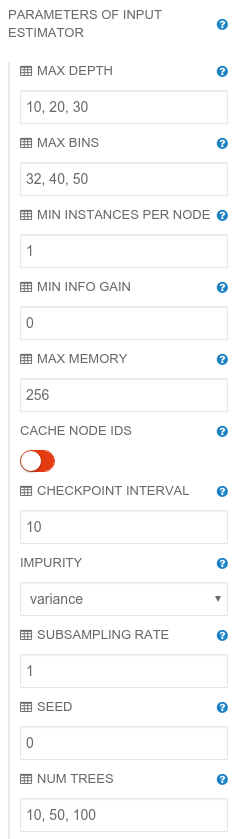
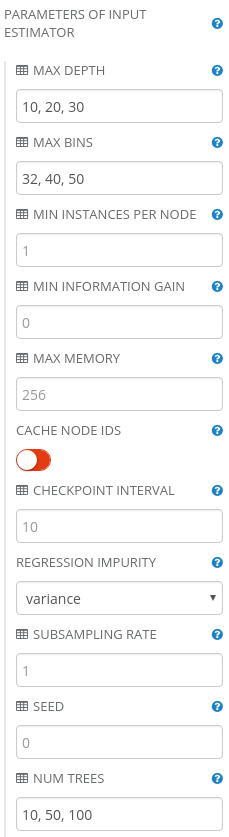
SHR-1005 SHR-1015 Update content to reflect 1.4.0
Both images and text were changed for wine properties example.

diff --git a/docs/_casestudies/wine_properties.md b/docs/_casestudies/wine_properties.md
@@ -10,37 +10,56 @@ description: Wine Properties
 
 **Dataset size**: 1,599 rows; 12 columns (11 numerical columns, 1 integer column).
 
-**Datasets description**: The dataset contains a description of a set of wines. Each wine is described by a set of 11 features based on physicochemical tests like density or pH. Additionally to that, each type of wine has a score that describes the wine’s quality. The score is based on sensory data (median of at least 3 evaluations made by wine experts). Each expert graded the wine quality between 0 (very bad) and 10 (excellent).
+**Datasets description**: The dataset contains a description of a set of wines.
+Each wine is described by a set of 11 features based on physicochemical tests like density or pH.
+Additionally to that, each type of wine has a score that describes the wine’s quality.
+The score is based on sensory data (median of at least 3 evaluations made by wine experts).
+Each expert graded the wine quality between 0 (very bad) and 10 (excellent).
 
-**Business purpose**: finding important features of wines that define wine quality as perceived by tasters.
+**Business purpose**: Finding important features of wines that define wine quality as perceived by tasters.
 
 **Data set credits**: Paulo Cortez, University of Minho, Guimarães, Portugal, <http://www3.dsi.uminho.pt/pcortez>
 A. Cerdeira, F. Almeida, T. Matos and J. Reis, Viticulture Commission of the Vinho Verde Region(CVRVV), Porto, Portugal 2009.
 Lichman, M. (2013).
 
 
-UCI Machine Learning Repository <http://archive.ics.uci.edu/ml>. Irvine, CA: University of California, School of Information and Computer Science.
+UCI Machine Learning Repository <http://archive.ics.uci.edu/ml>.
+Irvine, CA: University of California, School of Information and Computer Science.
 
 ## Step-by-step Workflow Creation
 
 ### Reading the Data
 
-The data is provided in the form of a 12-column, semicolon-separated CSV-like file. The first row consists of column names. To work with the dataset, it has to be loaded into Seahorse. This can be done by [Read DataFrame](../operations/read_dataframe.html) operation. Let’s place it on the canvas. To load the data, besides providing the correct path to the file, it is necessary to change the separator parameter to semicolon.
+The data is provided in the form of a 12-column, semicolon-separated CSV-like file.
+The first row consists of column names.
+To work with the dataset, it has to be loaded into Seahorse.
+This can be done by [Read DataFrame](../operations/read_dataframe.html) operation.
+Let’s place it on the canvas and create a new Data Source.
+To load the data, besides providing the correct path to the file,
+it is necessary to set the separator parameter to semicolon.
 
 <img class="bordered-image centered-image img-responsive spacer" src="../img/usecases/wine_properties/image_0.png">
 
-After setting Read DataFrame’s parameters to the correct values, the operation is ready to execute. When the execution ends, a report of the operation will be available. Let’s click on the output port to see it.
+After setting Read DataFrame’s parameters to the correct values, the operation is ready to execute.
+When the execution ends, a report of the operation will be available.
+Let’s click on the output port to see it.
 
 <img class="centered-image img-responsive spacer" src="../img/usecases/wine_properties/image_1.png">
 
-Now, we can explore the data a bit. The report included 20 sample rows.  As we can see, each wine is described by a set of 11 numerical features and an ordinal score based on sensory data (column **quality**) that describes wine’s quality.
+Now, we can explore the data a bit.
+The report included 20 sample rows.
+As we can see, each wine is described by a set of 11 numerical features
+and an ordinal score based on sensory data (column **quality**) that describes wine’s quality.
 
-Moreover, you can see distributions of values for each column. Click on a column’s header to see the distribution diagram, minimum value, maximum value, mean value and how many values are missing.
+Moreover, you can see distributions of values for each column.
+Click on an icon in column’s header to see
+the distribution diagram, minimum value, maximum value, mean value and how many values are missing.
 
 <img class="centered-image img-responsive spacer" src="../img/usecases/wine_properties/image_2.png">
 
 
-After some exploration we can see that no value is missing. Minimum values, mean values and maximum values summarizes the table below:
+After some exploration we can see that no value is missing.
+Minimum values, mean values and maximum values summarizes the table below:
 
 <table>
   <thead>
@@ -141,33 +160,81 @@ After some exploration we can see that no value is missing. Minimum values, mean
 
 ### The Objective
 
-Now, we will try to investigate which features of wine have significant impact on the quality. There are many different ways of achieving this. One of the possibilities is to fit a regression model to the data. For example, we could use a [Linear Regression](../operations/linear_regression.html) or a [Random Forest Regression](../operations/random_forest_regression.html). The first one exposes features weights that signify whether the feature has a positive or a negative impact (and how big the impact is) on the overall estimated value. Random Forest Regression exposes only importances of features, that help to determine whether the impact on the estimated value is high or low. Although, while it is not necessarily a rule, in many practical applications Random Forest Regression outperforms Linear Regression. Because of that we’ll choose Random Forest Regression.
+Now, we will try to investigate which features of wine have significant impact on the quality.
+There are many different ways of achieving this.
+One of the possibilities is to fit a regression model to the data.
+For example, we could use a [Linear Regression](../operations/linear_regression.html)
+or a [Random Forest Regression](../operations/random_forest_regression.html).
+The first one exposes features weights that signify
+whether the feature has a positive or a negative impact (and how big the impact is)
+on the overall estimated value.
+Random Forest Regression exposes only importances of features,
+that help to determine whether the impact on the estimated value is high or low.
+Although, while it is not necessarily a rule,
+in many practical applications Random Forest Regression outperforms Linear Regression.
+Because of that we’ll choose Random Forest Regression.
 
 ### Preparation and Feature Comparison Prerequisites
 
-Before we can train the Random Forest Regression to find out feature importance, we need to prepare the data. Some of Seahorse’s algorithms operate on columns that contain a vector of features (instead of a set of columns with one value each). The regression is one of them and before we use it, we need to combine 11 feature columns to one column that contains a vector of the features. We’ll do this using an [Assemble Vector](../operations/assemble_vector.html) operation.
+Before we can train the Random Forest Regression to find out feature importance,
+we need to prepare the data.
+Some of Seahorse’s algorithms operate on columns that contain a vector of features
+(instead of a set of columns with one value each).
+The regression is one of them and before we use it,
+we need to combine 11 feature columns to one column that contains a vector of the features.
+We’ll do this using an [Assemble Vector](../operations/assemble_vector.html) operation.
 
 Let’s put the Assemble Vector operation on the canvas and connect it as follows:
 
 <img class="centered-image img-responsive spacer" src="../img/usecases/wine_properties/image_3.png">
 
-The next step is to set parameters to the two operations. In the Assemble Vector operation we have to select the columns to be grouped and the output column’s name. We want to select wine features excluding quality, that is columns from 0 to 10. Let’s call the vectorized output column "features".
+The next step is to set parameters to the two operations.
+In the Assemble Vector operation we have
+to select the columns to be groupedand the output column’s name.
+We want to select wine features excluding quality, that is columns from 0 to 10.
+Let’s call the vectorized output column "features".
 
 <img class="bordered-image centered-image img-responsive spacer"  src="../img/usecases/wine_properties/image_4.png">
 
 ### Parameters of Training Process
 
-The Assemble Vector’s output [DataFrame](../classes/dataframe.html) has a format that the regression can work on - we are now ready to start playing with the regression. The regression allows to predict one column’s value basing on other columns’ values. In our case, you will want to create a Random Forest Regression model that predicts the quality of wine based on the value of **features** column. Then, we will take a look at the model to see how important each feature is.
+The Assemble Vector’s output [DataFrame](../classes/dataframe.html)
+has a format that the regression can work on - we are now ready to start playing with the regression.
+The regression allows to predict one column’s value basing on other columns’ values.
+In our case, you will want to create a Random Forest Regression model
+that predicts the quality of wine based on the value of **features** column.
+Then, we will take a look at the model to see how important each feature is.
 
-To create a model, we have to use [Fit](../operations/fit.html) operation. Random Forest Regression has many parameters that affect its behavior. It is not a trivial task to find the best values of parameters. Usually, it is done experimentally. Advanced knowledge about the Random Forest Regression algorithm is required. To overcome this issue, we’ll use a [Grid Search](../operations/grid_search.html) operation and let another algorithm find the best values for us. To use the Grid Search operation we define value sets for each parameter of a model. The Grid Search will fit as many models as there are combinations of the parameters. Later, it evaluates prediction correctness (using an [Evaluator](../classes/evaluator.html)) of all models. Finally, we end up with a report that summarizes Grid Search results and shows the best combination of parameters.
+To create a model, we have to use [Fit](../operations/fit.html) operation.
+Random Forest Regression has many parameters that affect its behavior.
+It is not a trivial task to find the best values of parameters. Usually, it is done experimentally.
+Advanced knowledge about the Random Forest Regression algorithm is required.
+To overcome this issue, we’ll use a [Grid Search](../operations/grid_search.html) operation
+and let another algorithm find the best values for us.
+To use the Grid Search operation we define value sets for each parameter of a model.
+The Grid Search will fit as many models as there are combinations of the parameters.
+Later, it evaluates prediction correctness
+(using an [Evaluator](../classes/evaluator.html)) of all models.
+Finally, we end up with
+a report that summarizes Grid Search results and shows the best combination of parameters.
 
-Place the Grid Search operation on the canvas. It has 3 inputs. To the first one, we’ll connect the first output port from the Assemble Vector operation, as we want to feed the Grid Search with the DataFrame that the Assemble Vector operation produces. To the second port we’ll connect the Random Forest Regression - let’s place it on the canvas. To the last port we need to connect an Evaluator - place a [Regression Evaluator](../operations/regression_evaluator.html) on the canvas and connect it with the Grid Search.
+Place the Grid Search operation on the canvas.
+It has 3 inputs.
+To the middle one, we’ll connect the first output port from the Assemble Vector operation,
+as we want to feed the Grid Search with the DataFrame that the Assemble Vector operation produces.
+To the left-hand port we’ll connect the Random Forest Regression - let’s place it on the canvas.
+To the right-hand port we need to connect an Evaluator - place
+a [Regression Evaluator](../operations/regression_evaluator.html) on the canvas
+and connect it with the Grid Search.
 
-A Regression Evaluator is capable of evaluating predictions made by a Regression. The evaluation is done using a certain metric. We’ll use RMSE (Root-Mean-Square Error), as it is the simplest to interpret.
+A Regression Evaluator is capable of evaluating predictions made by a Regression.
+The evaluation is done using a certain metric.
+We’ll use RMSE (Root-Mean-Square Error), as it is the simplest to interpret.
 
 <img class="centered-image img-responsive spacer"  src="../img/usecases/wine_properties/image_5.png">
 
-Grid Search operation’s parameters combine the parameters from its input Regressor and Evaluator. In the parameters panel, scroll down to the parameters of the input estimator and set their values to:
+Grid Search operation’s parameters combine the parameters from its input Regressor and Evaluator.
+In the parameters panel, set values of parameters of the input estimator to:
 
 * `max depth`: `10, 20, 30`,
 
@@ -187,24 +254,46 @@ Grid Search operation’s parameters combine the parameters from its input Regre
 </table>
 
 
-Using these value sets, we define 27 models (3 x 3 x 3) that need to be trained and then evaluated. The last thing we need to set in the Grid Search operation are the `features column` and the `label column`. The former specifies which column contains the predictors (i.e. the features on which our prediction will be based on). We’ll set this parameter to `features`. The latter specifies the column containing true values of our predicted variable, for training purposes. We’ll set this to `quality`.
+Using these value sets, we define 27 models (3 x 3 x 3) that need to be trained and then evaluated.
+The last thing we need to set in the Grid Search operation
+are the `features column` and the `label column`.
+The former specifies which column contains the predictors
+(i.e. the features on which our prediction will be based on).
+We’ll set this parameter to `features`.
+The latter specifies the column
+containing true values of our predicted variable, for training purposes.
+We’ll set this to `quality`.
 
-Finally, leave other parameters with the default values and execute the workflow. As we mentioned, 27 models have to be trained and evaluated (twice, because of cross-validation) so the execution can take a couple of minutes. Afterwards, we can read parameters that got the best score. They can be read from Grid Search’s report.
+Finally, leave other parameters with the default values and execute the workflow.
+As we mentioned, 27 models have to be trained and evaluated (twice, because of cross-validation)
+so the execution can take a couple of minutes.
+Afterwards, we can read parameters that got the best score.
+They can be read from Grid Search’s report.
 <img class="centered-image img-responsive spacer"  src="../img/usecases/wine_properties/image_6.png">
 
 In our case the best parameters found are:
 
-* `max depth`: `20`,
-
 * `max bins`: `40`,
+
+* `max depth`: `30`,
 
 * `num trees`: `100`.
 
-As we can see, none of the parameters (except number of trees) lays on the edge of the grid. We could increase number of trees because, generally for the Random Forest Regression, the more trees, the more accurate the results of regression. However, differences between 50 and 100 trees are rather small and further increase of the number of trees won’t have a significant impact on the quality. Moreover, computation time grows with the number of trees. We are going to use 100 trees in the Random Forest Regression as it’s a good compromise between accuracy and execution time.
+As we can see, none of the parameters (except number of trees) lays on the edge of the grid.
+We could increase number of trees because, generally for the Random Forest Regression,
+the more trees, the more accurate the results of regression.
+However, differences between 50 and 100 trees are rather small
+and further increase of the number of trees won’t have a significant impact on the quality.
+Moreover, computation time grows with the number of trees.
+We are going to use 100 trees in the Random Forest Regression
+as it’s a good compromise between accuracy and execution time.
 
 ### Training
 
-Since we now know the best parameter values, we can use the Fit operation to train a Random Forest Regression model. Edit Fit’s parameters according to the report generated by the Grid Search, i.e. copy the best parameter values to the Fit operation. Then, select `features` as the `features column` and `quality` as the `label column`. Finally, execute the Fit operation.
+Since we now know the best parameter values
+we can use the Fit operation to train a Random Forest Regression model.
+Edit Fit’s parameters according to the report generated by the Grid Search,
+i.e. copy the best parameter values to the Fit operation. Then, select `features` as the `features column` and `quality` as the `label column`. Finally, execute the Fit operation.
 
 <img class="centered-image img-responsive spacer"  src="../img/usecases/wine_properties/image_7.png">
 
@@ -268,6 +357,20 @@ Fit returns a trained model. In the model’s report we can inspect the feature 
 
 ## Conclusion
 
-We’ve researched how important each feature of wine is for estimating its perceived quality. It turned out, that the two most important features are alcohol and sulphates concentration.
+We’ve researched how important each feature of wine is for estimating its perceived quality.
+It turned out, that the two most important features are alcohol and sulphates concentration.
 
-The trained model can be used to predict quality of wine. Wine grades were ordinal numbers, but the model generates real numbers. To convert real numbers to an ordinal number, we could round the prediction to the nearest ordinal number. If the prediction differs from the estimated value by no more than 0.5, then the rounded prediction will be the same number as the estimated value (it will be a correct prediction). If the difference is bigger than 0.5, but not bigger than 1.5, then the rounded prediction will be inaccurate by 1. Model’s RMSE is about 0.61. It means that the model’s predictions differ from the real values by no more than 0.61, on average. Thus, rounded predictions most likely will be inaccurate by 1. Even though the model turned out to be slightly inaccurate, it can be used to indicate whether the wine is good or bad, though, not so precisely.
+The trained model can be used to predict quality of wine.
+Wine grades were ordinal numbers, but the model generates real numbers.
+To convert real numbers to an ordinal number,
+we could round the prediction to the nearest ordinal number.
+If the prediction differs from the estimated value by no more than 0.5,
+then the rounded prediction will be the same number as the estimated value
+(it will be a correct prediction).
+If the difference is bigger than 0.5, but not bigger than 1.5,
+then the rounded prediction will be inaccurate by 1.
+Model’s RMSE is about 0.61. It means that the model’s predictions differ
+from the real values by no more than 0.61, on average.
+Thus, rounded predictions most likely will be inaccurate by 1.
+Even though the model turned out to be slightly inaccurate,
+it can be used to indicate whether the wine is good or bad, though, not so precisely.
